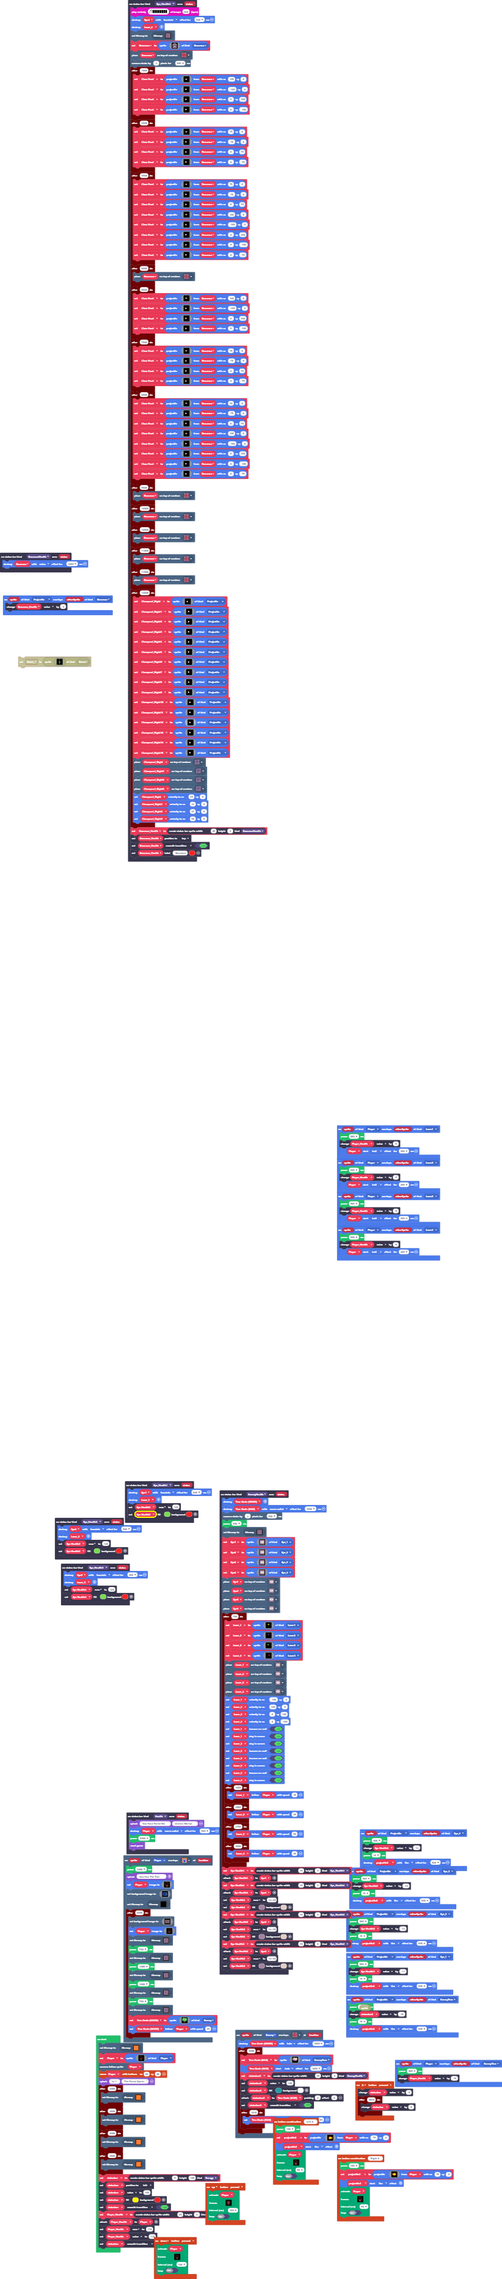
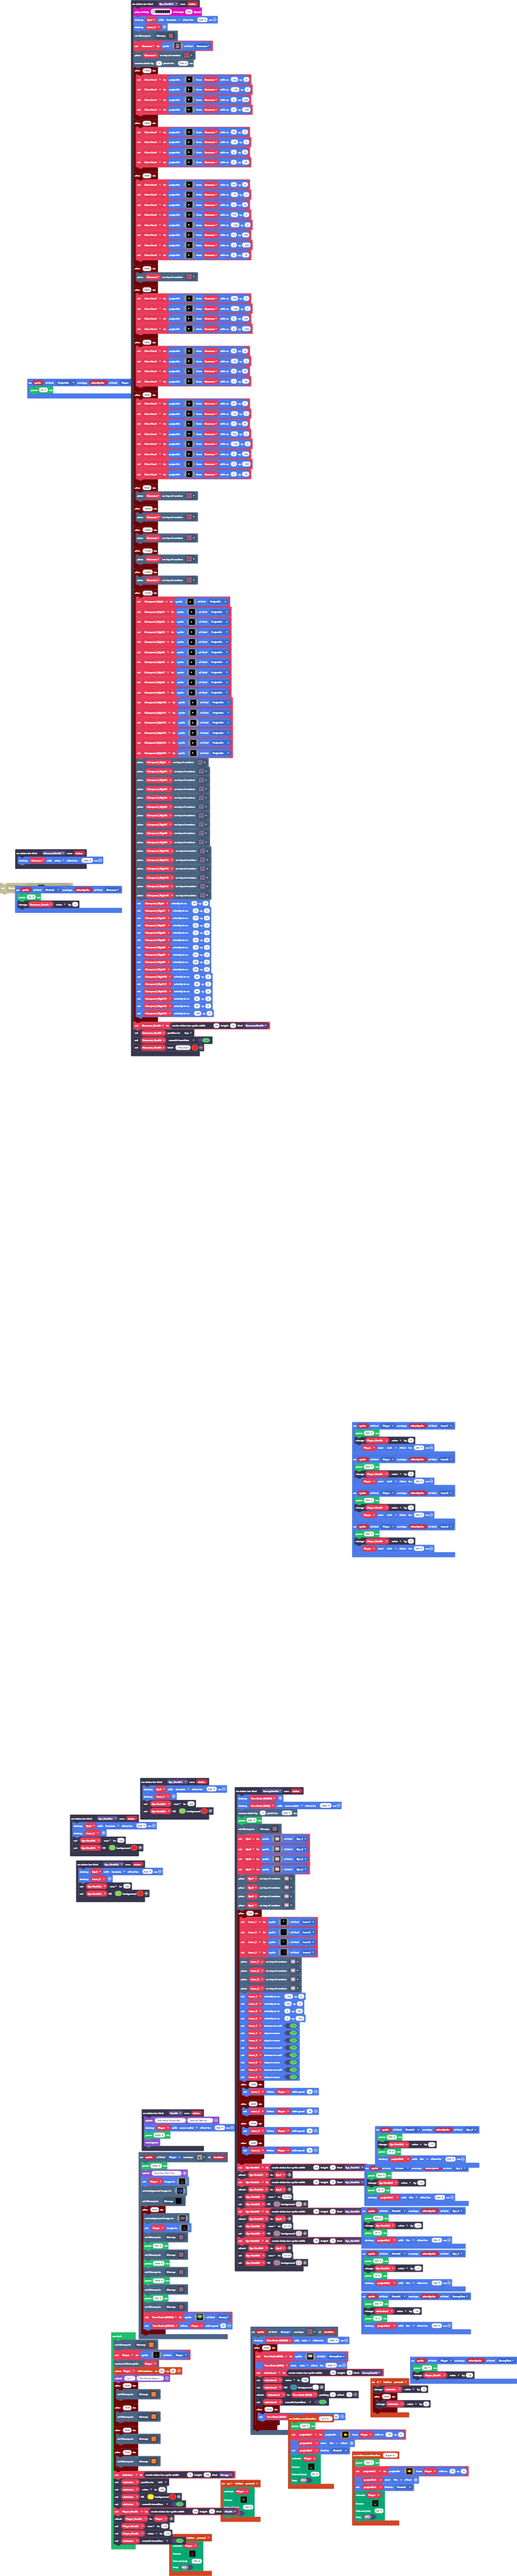
Cool

Changed region(s): [[0.0912, 0.6218, 1.0, 1.0], [0.0, 0.0, 0.517, 0.4353], [0.6691, 0.4664, 0.882, 0.6218]]

diff --git a/main.ts b/main.ts
@@ -16,6 +16,7 @@ namespace SpriteKind {
     export const Parkour = SpriteKind.create()
     export const Bossman = SpriteKind.create()
     export const Dawn = SpriteKind.create()
+    export const Fireball = SpriteKind.create()
 }
 namespace StatusBarKind {
     export const Eye_Health1 = StatusBarKind.create()
@@ -342,7 +343,7 @@ scene.onOverlapTile(SpriteKind.Player, assets.tile`myTile0`, function (sprite, l
         Tree_Dude_GOOD.follow(Player, 35)
     })
 })
-sprites.onOverlap(SpriteKind.Projectile, SpriteKind.Eye_3, function (sprite, otherSprite) {
+sprites.onOverlap(SpriteKind.Fireball, SpriteKind.Eye_3, function (sprite, otherSprite) {
     pause(500)
     Eye_Health3.value += -13
     pause(15)
@@ -591,6 +592,7 @@ controller.combos.attachCombo("Left A", function () {
         . . . . . . . . . . . . . . . . 
         `, Player, -75, 0)
     projectile2.startEffect(effects.fire)
+    projectile2.setKind(SpriteKind.Fireball)
     animation.runImageAnimation(
     Player,
     [img`
@@ -729,6 +731,9 @@ controller.A.onEvent(ControllerButtonEvent.Pressed, function () {
         statusbar.value += 5
     })
 })
+sprites.onOverlap(SpriteKind.Projectile, SpriteKind.Player, function (sprite, otherSprite) {
+    pause(75)
+})
 controller.combos.attachCombo("Right A", function () {
     pause(100)
     projectile2 = sprites.createProjectileFromSprite(img`
@@ -750,6 +755,7 @@ controller.combos.attachCombo("Right A", function () {
         . . . . . . . . . . . . . . . . 
         `, Player, 75, 0)
     projectile2.startEffect(effects.fire)
+    projectile2.setKind(SpriteKind.Fireball)
     animation.runImageAnimation(
     Player,
     [img`
@@ -893,9 +899,13 @@ controller.combos.attachCombo("Right A", function () {
     false
     )
 })
-sprites.onOverlap(SpriteKind.Projectile, SpriteKind.Eye_1, function (sprite, otherSprite) {
+sprites.onOverlap(SpriteKind.Fireball, SpriteKind.Bossman, function (sprite, otherSprite) {
+    pause(75)
+    Bossman_Health.value += -3
+})
+sprites.onOverlap(SpriteKind.Fireball, SpriteKind.Eye_2, function (sprite, otherSprite) {
     pause(500)
-    Eye_Health1.value += -11
+    Eye_Health2.value += -12
     pause(15)
     projectile2.destroy(effects.fire, 500)
 })
@@ -904,8 +914,11 @@ sprites.onOverlap(SpriteKind.Player, SpriteKind.Laser2, function (sprite, otherS
     Player_Health.value += -5
     Player.startEffect(effects.trail, 200)
 })
-sprites.onOverlap(SpriteKind.Projectile, SpriteKind.Bossman, function (sprite, otherSprite) {
-    Bossman_Health.value += -3
+sprites.onOverlap(SpriteKind.Fireball, SpriteKind.Eye_1, function (sprite, otherSprite) {
+    pause(500)
+    Eye_Health1.value += -11
+    pause(15)
+    projectile2.destroy(effects.fire, 500)
 })
 statusbars.onZero(StatusBarKind.EnemyHealth, function (status) {
     Tree_Dude_GOOD.destroy()
@@ -1105,12 +1118,6 @@ statusbars.onZero(StatusBarKind.EnemyHealth, function (status) {
     Eye_Health2.attachToSprite(Eye2)
     Eye_Health2.max = 1e+38
     Eye_Health2.setColor(11, 13)
-})
-sprites.onOverlap(SpriteKind.Projectile, SpriteKind.Eye_2, function (sprite, otherSprite) {
-    pause(500)
-    Eye_Health2.value += -12
-    pause(15)
-    projectile2.destroy(effects.fire, 500)
 })
 statusbars.onZero(StatusBarKind.Eye_Health4, function (status) {
     music.playMelody("C5 C5 C5 C5 C5 C5 C5 C5 ", 300)
@@ -2036,10 +2043,34 @@ statusbars.onZero(StatusBarKind.Eye_Health4, function (status) {
         tiles.placeOnRandomTile(Clampearl_Right1, assets.tile`myTile25`)
         tiles.placeOnRandomTile(Clampearl_Right2, assets.tile`myTile25`)
         tiles.placeOnRandomTile(Clampearl_Right3, assets.tile`myTile25`)
+        tiles.placeOnRandomTile(Clampearl_Right4, assets.tile`myTile25`)
+        tiles.placeOnRandomTile(Clampearl_Right5, assets.tile`myTile25`)
+        tiles.placeOnRandomTile(Clampearl_Right6, assets.tile`myTile25`)
+        tiles.placeOnRandomTile(Clampearl_Right7, assets.tile`myTile25`)
+        tiles.placeOnRandomTile(Clampearl_Right8, assets.tile`myTile25`)
+        tiles.placeOnRandomTile(Clampearl_Right9, assets.tile`myTile25`)
+        tiles.placeOnRandomTile(Clampearl_Right10, assets.tile`myTile25`)
+        tiles.placeOnRandomTile(Clampearl_Right11, assets.tile`myTile25`)
+        tiles.placeOnRandomTile(Clampearl_Right12, assets.tile`myTile25`)
+        tiles.placeOnRandomTile(Clampearl_Right13, assets.tile`myTile25`)
+        tiles.placeOnRandomTile(Clampearl_Right14, assets.tile`myTile25`)
+        tiles.placeOnRandomTile(Clampearl_Right15, assets.tile`myTile25`)
         Clampearl_Right.setVelocity(35, 0)
         Clampearl_Right1.setVelocity(44, 0)
         Clampearl_Right2.setVelocity(27, 0)
-        Clampearl_Right3.setVelocity(58, 0)
+        Clampearl_Right3.setVelocity(82, 0)
+        Clampearl_Right4.setVelocity(74, 0)
+        Clampearl_Right5.setVelocity(34, 0)
+        Clampearl_Right6.setVelocity(10, 0)
+        Clampearl_Right7.setVelocity(61, 0)
+        Clampearl_Right8.setVelocity(58, 0)
+        Clampearl_Right9.setVelocity(68, 0)
+        Clampearl_Right10.setVelocity(26, 0)
+        Clampearl_Right11.setVelocity(88, 0)
+        Clampearl_Right12.setVelocity(98, 0)
+        Clampearl_Right13.setVelocity(81, 0)
+        Clampearl_Right14.setVelocity(39, 0)
+        Clampearl_Right15.setVelocity(100, 0)
     })
     Bossman_Health = statusbars.create(20, 3, StatusBarKind.BossmanHealth)
     Bossman_Health.positionDirection(CollisionDirection.Top)
@@ -2061,6 +2092,12 @@ statusbars.onZero(StatusBarKind.Eye_Health3, function (status) {
     Laser_3.destroy()
     Eye_Health4.max = 120
     Eye_Health4.setColor(7, 2)
+})
+sprites.onOverlap(SpriteKind.Fireball, SpriteKind.EnemyTree, function (sprite, otherSprite) {
+    pause(300)
+    statusbar2.value += -10
+    pause(15)
+    projectile2.destroy(effects.fire, 500)
 })
 sprites.onOverlap(SpriteKind.Player, SpriteKind.Laser4, function (sprite, otherSprite) {
     pause(500)
@@ -2254,15 +2291,9 @@ sprites.onOverlap(SpriteKind.Player, SpriteKind.Laser1, function (sprite, otherS
 statusbars.onZero(StatusBarKind.BossmanHealth, function (status) {
     Bossman.destroy(effects.ashes, 1000)
 })
-sprites.onOverlap(SpriteKind.Projectile, SpriteKind.Eye_4, function (sprite, otherSprite) {
+sprites.onOverlap(SpriteKind.Fireball, SpriteKind.Eye_4, function (sprite, otherSprite) {
     pause(500)
     Eye_Health4.value += -14
-    pause(15)
-    projectile2.destroy(effects.fire, 500)
-})
-sprites.onOverlap(SpriteKind.Projectile, SpriteKind.EnemyTree, function (sprite, otherSprite) {
-    pause(300)
-    statusbar2.value += -10
     pause(15)
     projectile2.destroy(effects.fire, 500)
 })
@@ -2289,8 +2320,8 @@ let Laser_4: Sprite = null
 let Laser_3: Sprite = null
 let Eye4: Sprite = null
 let Eye3: Sprite = null
-let Bossman_Health: StatusBarSprite = null
 let Eye_Health1: StatusBarSprite = null
+let Bossman_Health: StatusBarSprite = null
 let Eye_Health2: StatusBarSprite = null
 let Laser_1: Sprite = null
 let Eye1: Sprite = null

diff --git a/tilemap.g.ts b/tilemap.g.ts
@@ -60,6 +60,8 @@ namespace myTiles {
     export const tile28 = image.ofBuffer(hex``);
     //% fixedInstance jres blockIdentity=images._tile
     export const tile29 = image.ofBuffer(hex``);
+    //% fixedInstance jres blockIdentity=images._tile
+    export const tile30 = image.ofBuffer(hex``);
 
     helpers._registerFactory("tilemap", function(name: string) {
         switch(helpers.stringTrim(name)) {
@@ -177,25 +179,6 @@ namespace myTiles {
 . . . . . . . . . . . . . . . . 
 . . . . . . . . . . . . . . . . 
 `, [myTiles.transparency16,myTiles.tile1,myTiles.tile2,myTiles.tile3], TileScale.Sixteen);
-            case "level1":
-            case "level1":return tiles.createTilemap(hex`1000100001010101010101030101010101010101010101020101010201010101010101010101010201010101010101010101010101010101010101010101020101010101010101020101010101010101020101010101010101010201010101010101010101010101010101010101010101010101010102010101010101010101010101010101010101010101010201010102010101010201020101010201010101010101010102010101010101010102010101010101020101010101010101010101010101010101010201010101010101010101010101010101020101010202020101010101010101010101010101010101010101010101010101010101010101010101`, img`
-. . . . . . . . . . . . . . . . 
-. . . . . . . . . . . . . . . . 
-. . . . . . . . . . . . . . . . 
-. . . . . . . . . . . . . . . . 
-. . . . . . . . . . . . . . . . 
-. . . . . . . . . . . . . . . . 
-. . . . . . . . . . . . . . . . 
-. . . . . . . . . . . . . . . . 
-. . . . . . . . . . . . . . . . 
-. . . . . . . . . . . . . . . . 
-. . . . . . . . . . . . . . . . 
-. . . . . . . . . . . . . . . . 
-. . . . . . . . . . . . . . . . 
-. . . . . . . . . . . . . . . . 
-. . . . . . . . . . . . . . . . 
-. . . . . . . . . . . . . . . . 
-`, [myTiles.transparency16,myTiles.tile1,myTiles.tile3,myTiles.tile4,myTiles.tile8], TileScale.Sixteen);
             case "level8":
             case "level8":return tiles.createTilemap(hex`1000100001010101010101020101010101010101010101010101010101010101010101010101010101010101010101010101010101010101010101010801010101010101010101010101010101010101080101010101010801010301010101010101010101010101010105040101010101010101010101010105070704030101010101010101010103040707050101010101010101080101010104050108010101010101010101010101010301010101010801010101010108010101010101010101010101010101010101010101010101010101010101010101010101010101010101010101010101010108010101010101010101010101010101010101010101010101`, img`
 . . . . . . . . . . . . . . . . 
@@ -348,6 +331,25 @@ namespace myTiles {
 . . . . . . . . . . . . . . . . 
 . . . . . . . . . . . . . . . . 
 `, [myTiles.transparency16,myTiles.tile9,myTiles.tile10,myTiles.tile11,myTiles.tile12,myTiles.tile13,myTiles.tile14,myTiles.tile16,myTiles.tile17,myTiles.tile26,myTiles.tile27,myTiles.tile28,myTiles.tile29], TileScale.Sixteen);
+            case "level1":
+            case "level1":return tiles.createTilemap(hex`1000100001010101010101030401010101010101010101020101010201010101010101010101010201010101010101010101010101010101010101010101020101010101010101020101010101010101020101010101010101010201010101010101010101010101010101010101010101010101010102010101010101010101010101010101010101010101010201010102010101010201020101010201010101010101010102010101010101010102010101010101020101010101010101010101010101010101010201010101010101010101010101010101020101010202020101010101010101010101010101010101010101010101010101010101010101010101`, img`
+. . . . . . . . . . . . . . . . 
+. . . . . . . . . . . . . . . . 
+. . . . . . . . . . . . . . . . 
+. . . . . . . . . . . . . . . . 
+. . . . . . . . . . . . . . . . 
+. . . . . . . . . . . . . . . . 
+. . . . . . . . . . . . . . . . 
+. . . . . . . . . . . . . . . . 
+. . . . . . . . . . . . . . . . 
+. . . . . . . . . . . . . . . . 
+. . . . . . . . . . . . . . . . 
+. . . . . . . . . . . . . . . . 
+. . . . . . . . . . . . . . . . 
+. . . . . . . . . . . . . . . . 
+. . . . . . . . . . . . . . . . 
+. . . . . . . . . . . . . . . . 
+`, [myTiles.transparency16,myTiles.tile1,myTiles.tile3,myTiles.tile4,myTiles.tile30], TileScale.Sixteen);
         }
         return null;
     })
@@ -413,6 +415,8 @@ namespace myTiles {
             case "tile28":return tile28;
             case "myTile27":
             case "tile29":return tile29;
+            case "myTile28":
+            case "tile30":return tile30;
         }
         return null;
     })
